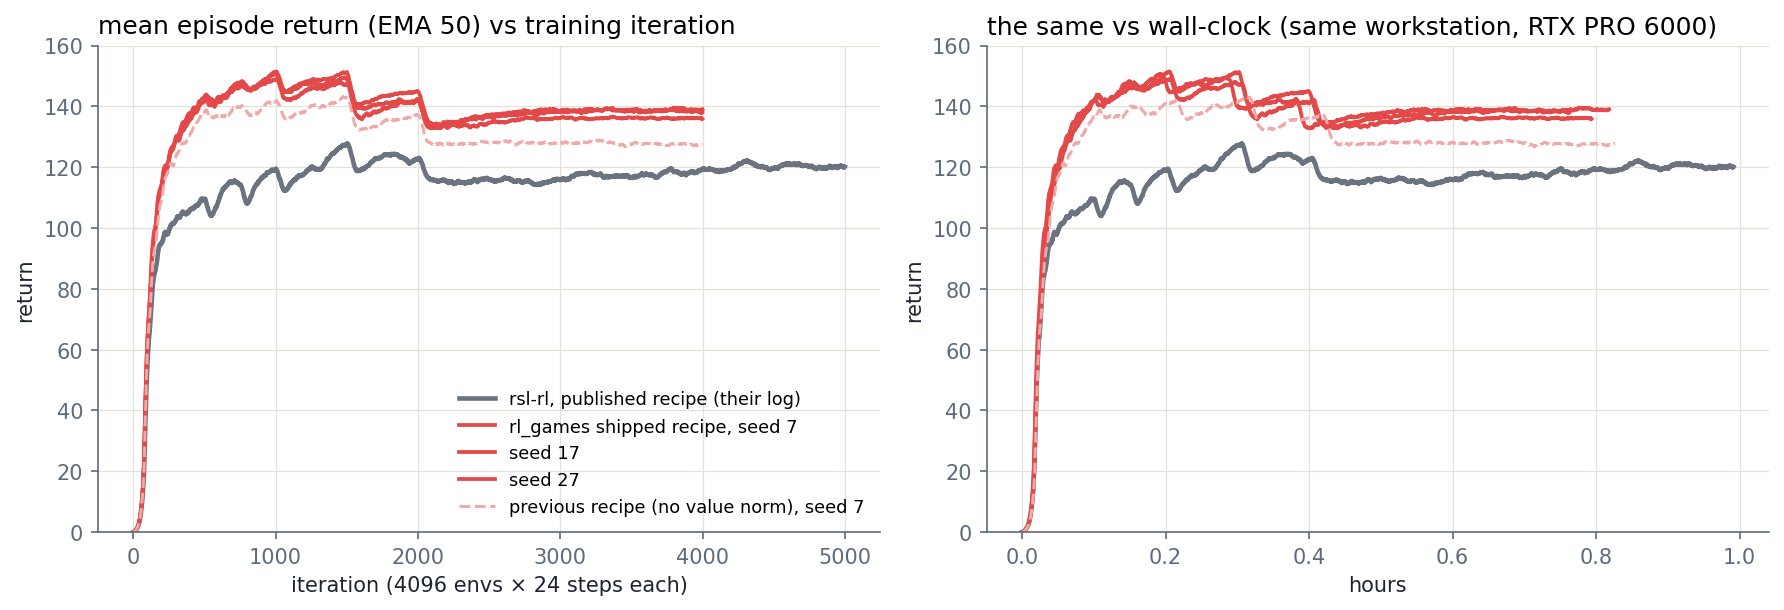
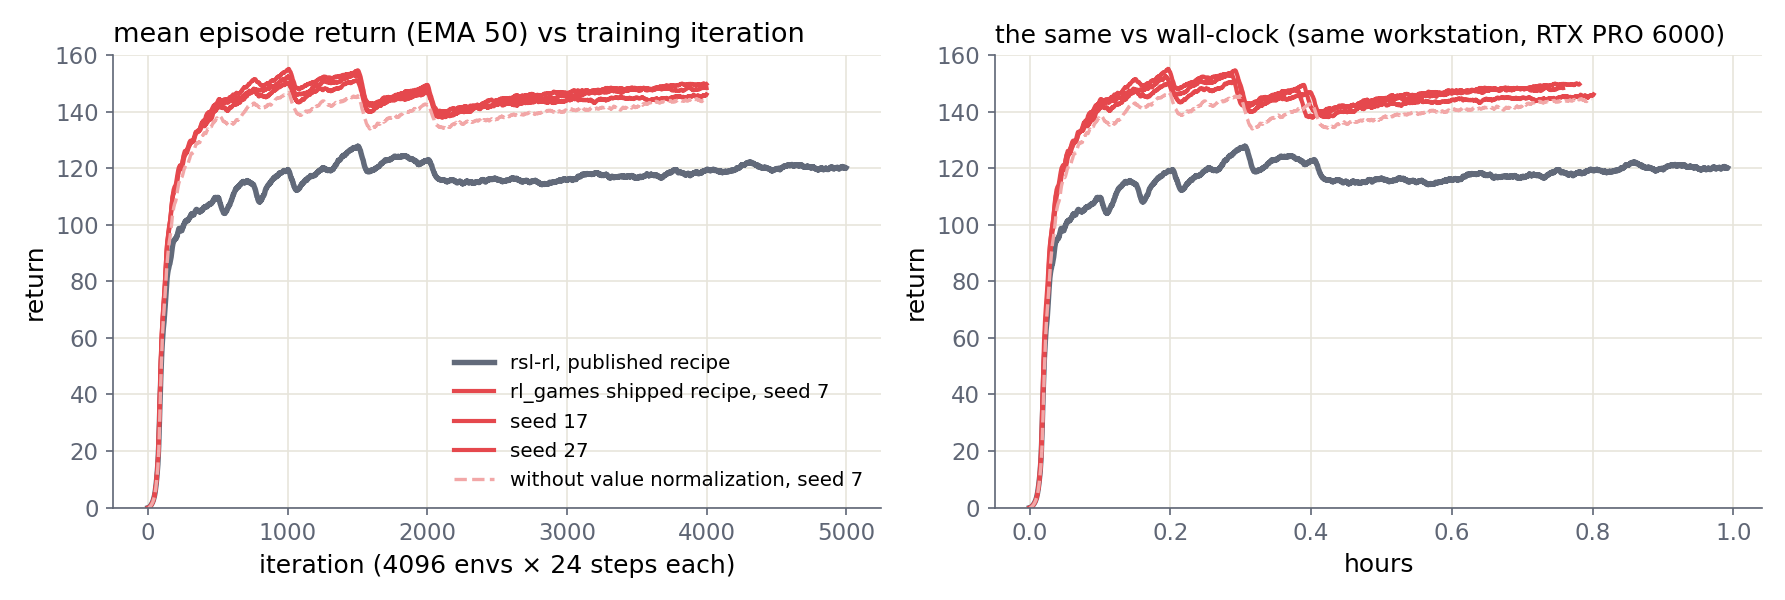
MicroDuck docs: TF32 re-baseline (3 seeds; value-normalization A/B in TF32), redrawn comparison plots

Changed region(s): [[0.0, 0.03, 0.9865, 0.99], [0.7399, 0.93, 0.8016, 0.99]]

diff --git a/docs/MJLAB.md b/docs/MJLAB.md
@@ -309,21 +309,21 @@ Same-machine comparison against Pollen's rsl-rl reference recipe at its own
 geometry (4096 envs × 24 steps), identical env and reward terms, raw
 100-episode mean return on both sides: `ppo_microduck_velocity.yaml` on three
 seeds (7, 17, 27; 4000 epochs) vs the reference run (5000 iterations, one
-seed). All rl_games rows are on the current code (exact KL, #381).
+seed). All rl_games rows are on the current code (exact KL, #381) with the TF32 default (#383).
 
-| | rl_games, shipped recipe (3 seeds) | rl_games, same recipe without value normalization (2 seeds) | rsl-rl reference |
+| | rl_games, shipped recipe (3 seeds) | rl_games, same recipe without value normalization (3 seeds) | rsl-rl reference |
 |---|---|---|---|
-| final return (last 200 / 500 iterations) | **136.1 / 138.3 / 139.0** (mean 137.8) | 127.6 / 130.1 | 120.3 |
-| peak return | **151.4 / 150.7 / 149.1** | 143.1 / 143.6 | 131.7 |
-| reaches the rsl-rl final level (120.3) | **iterations 223 to 245, 2.9 to 3.2 min** | iterations 256 to 288 | iteration 1,333, 16.3 min |
-| wall-clock for the run | 46 to 50 min for 4,000 iterations (two runs sharing the box) | same | 59.5 min for 5,000 |
+| final return (last 200 / 500 iterations) | **149.7 / 148.1 / 145.4** (mean 147.7) | 144.1 / 140.6 / 147.5 (mean 144.1) | 120.3 |
+| peak return (EMA 50) | **155.1 / 153.4 / 151.1** | 146.6 / 144.7 / 150.3 | 127.8 |
+| reaches the rsl-rl final level (120.3) | **iterations 221 to 244, 2.8 to 3.1 min** | iterations 258 to 283 | iteration 1,332, 16.3 min |
+| wall-clock for the run | 45 to 49 min for 4,000 iterations (two runs sharing the box) | same | 59.5 min for 5,000 |
 
 ![MicroDuck: rl_games vs rsl-rl](pictures/mjlab/microduck_comparison.png)
 
 ![MicroDuck, forward 0.4 m/s](pictures/mjlab/microduck_forward.gif)
 
-The clips (here and in the README) are the seed-17 checkpoint of the
-shipped config under one pinned command each, rendered from a camera that
+The clips (here and in the README) are a seed-17 checkpoint of the
+shipped recipe under one pinned command each, rendered from a camera that
 follows the robot, with the commanded and the measured body-frame velocity
 (0.5 s average) drawn on the frame. Yaw tracks the command; forward and
 backward track at about half of it, as does Pollen's reference policy in the
@@ -336,7 +336,7 @@ under this task's penalty ramp), an explicit adaptive-rate band (`max_lr
 1e-3`; the legacy 1e-2 ceiling let the KL-driven raise run away),
 `clip_actions: false` (mjlab clamps in the env; pre-clamping distorts both the
 actions and the KL the scheduler reads), and `normalize_value: true`, the
-change that lifts the final return from 128 / 130 to 136 / 138 / 139: the task ramps
+change that lifts the final return from 144.1 to 147.7 (means of three seeds, whose ranges overlap): the task ramps
 its penalty weights with iteration, so the return scale shifts during
 training and an unnormalized value target lags every ramp. Things that did
 not help here: a step-KL scheduler (`kl_schedule_source: optimizer_step`,

diff --git a/README.md b/README.md
@@ -39,7 +39,7 @@ Also trained with rl_games: [TriFinger sim-to-real](https://s2r2-ig.github.io/),
 
 ## Why rl_games
 
-- **Beats the reference trainers on their own tasks, same machine, same budget.** MicroDuck: 138 vs 120 final return over three seeds, and their final level reached in 3 minutes instead of 16. Go1 flat velocity: 86.8 vs 83.2. WujiHand reorientation: 19.1–20.1 vs 16.9 goal reaches per episode over three seeds, the reference's score in 1.3–1.4 h instead of 2.1 h, 21.1 on two GPUs. Lift-Cube-Yam: success 0.85 vs 0.72.
+- **Beats the reference trainers on their own tasks, same machine, same budget.** MicroDuck: 148 vs 120 final return over three seeds, and their final level reached in 3 minutes instead of 16. Go1 flat velocity: 86.8 vs 83.2. WujiHand reorientation: 19.1–20.1 vs 16.9 goal reaches per episode over three seeds, the reference's score in 1.3–1.4 h instead of 2.1 h, 21.1 on two GPUs. Lift-Cube-Yam: success 0.85 vs 0.72.
 - **Built for GPU simulators.** One process drives thousands of environments. Asymmetric actor-critic with a separate central-value critic, RNN policies, Triton GAE, `torch.compile`, DistributedDataParallel multi-GPU, population-based training, self-play, ONNX export, a live viewer with keyboard command control.
 - **Proven in sim-to-real.** DeXtreme, DexPBT, TriFinger, DextrAH-RGB and Play2Perfect trained their policies with rl_games.
 - **SAC too.** Matches or exceeds published reference scores at 1M frames on HalfCheetah, Ant and Humanoid, and keeps improving past that budget.
@@ -53,11 +53,11 @@ Also trained with rl_games: [TriFinger sim-to-real](https://s2r2-ig.github.io/),
 <table width="100%">
 <tr>
 <td width="50%" align="center"><img src="docs/pictures/mjlab/microduck_forward.gif" width="100%" alt="MicroDuck walking forward under a 0.4 m/s command with commanded and measured velocity shown"></td>
-<td width="50%"><img src="docs/pictures/mjlab/microduck_comparison_wall.png" width="100%" alt="MicroDuck training reward vs wall-clock: rl_games crosses the rsl-rl final level at 3 minutes and finishes at 138 vs 120"></td>
+<td width="50%"><img src="docs/pictures/mjlab/microduck_comparison_wall.png" width="100%" alt="MicroDuck training reward vs wall-clock: rl_games crosses the rsl-rl final level at 3 minutes and finishes at 148 vs 120"></td>
 </tr>
 <tr>
 <td><b>Forward 0.4 m/s</b>, the shipped config's policy. The overlay shows the commanded and the measured body-frame velocity.</td>
-<td>Same environment, reward terms and 4096 x 24 geometry as Pollen's rsl-rl reference: rl_games (3 seeds) crosses the reference's final level at 3 min vs 16.3 and finishes at 138 vs 120.</td>
+<td>Same environment, reward terms and 4096 x 24 geometry as Pollen's rsl-rl reference: rl_games (3 seeds) crosses the reference's final level at 3 min vs 16.3 and finishes at 148 vs 120.</td>
 </tr>
 <tr>
 <td width="50%" align="center"><img src="docs/pictures/mjlab/microduck_backward.gif" width="100%" alt="MicroDuck walking backward under a 0.4 m/s command"></td>
